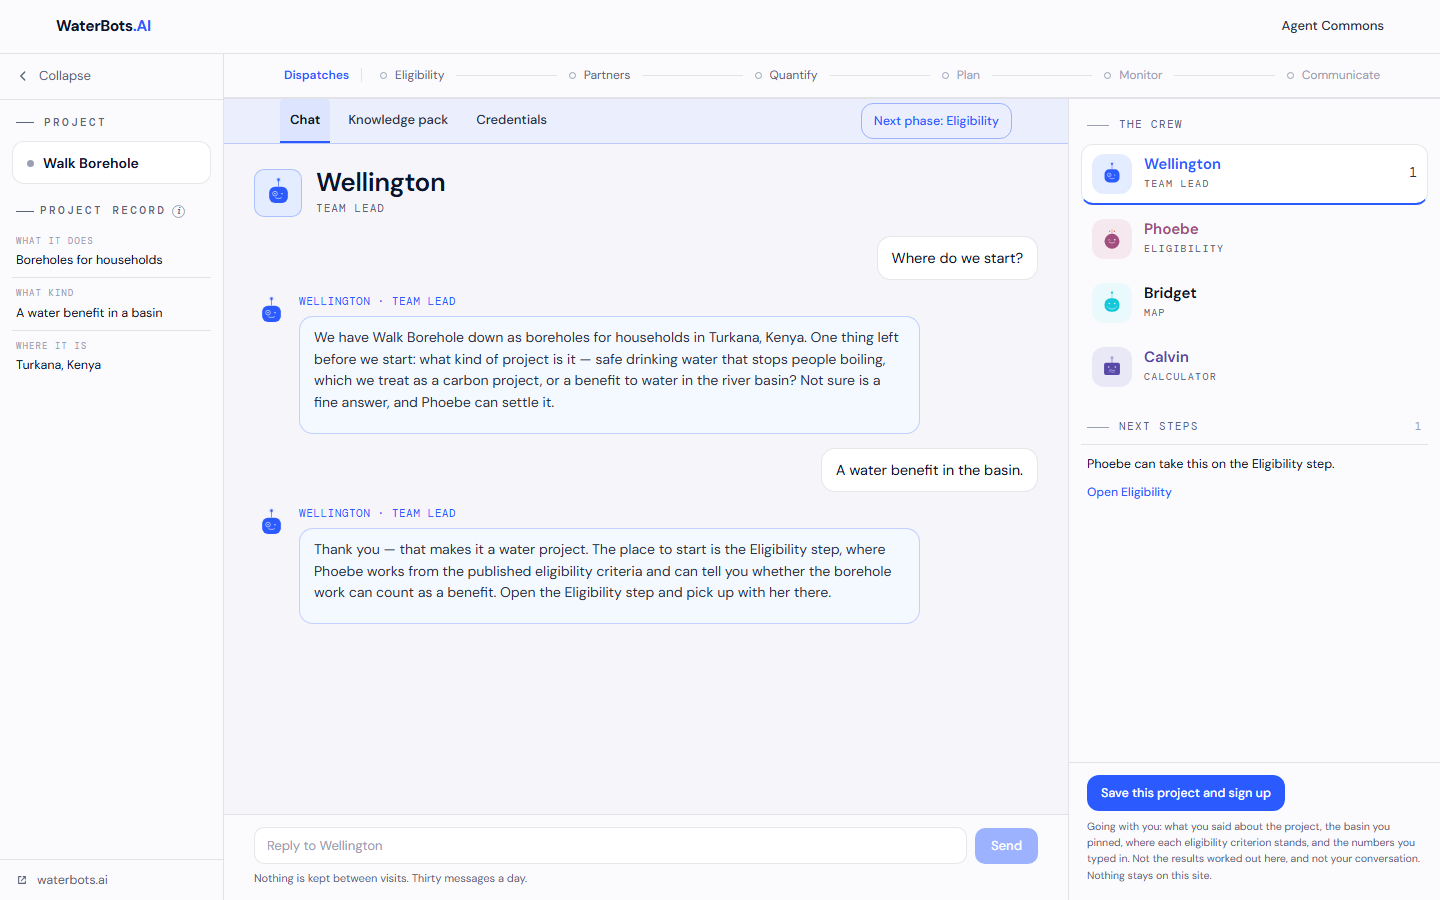
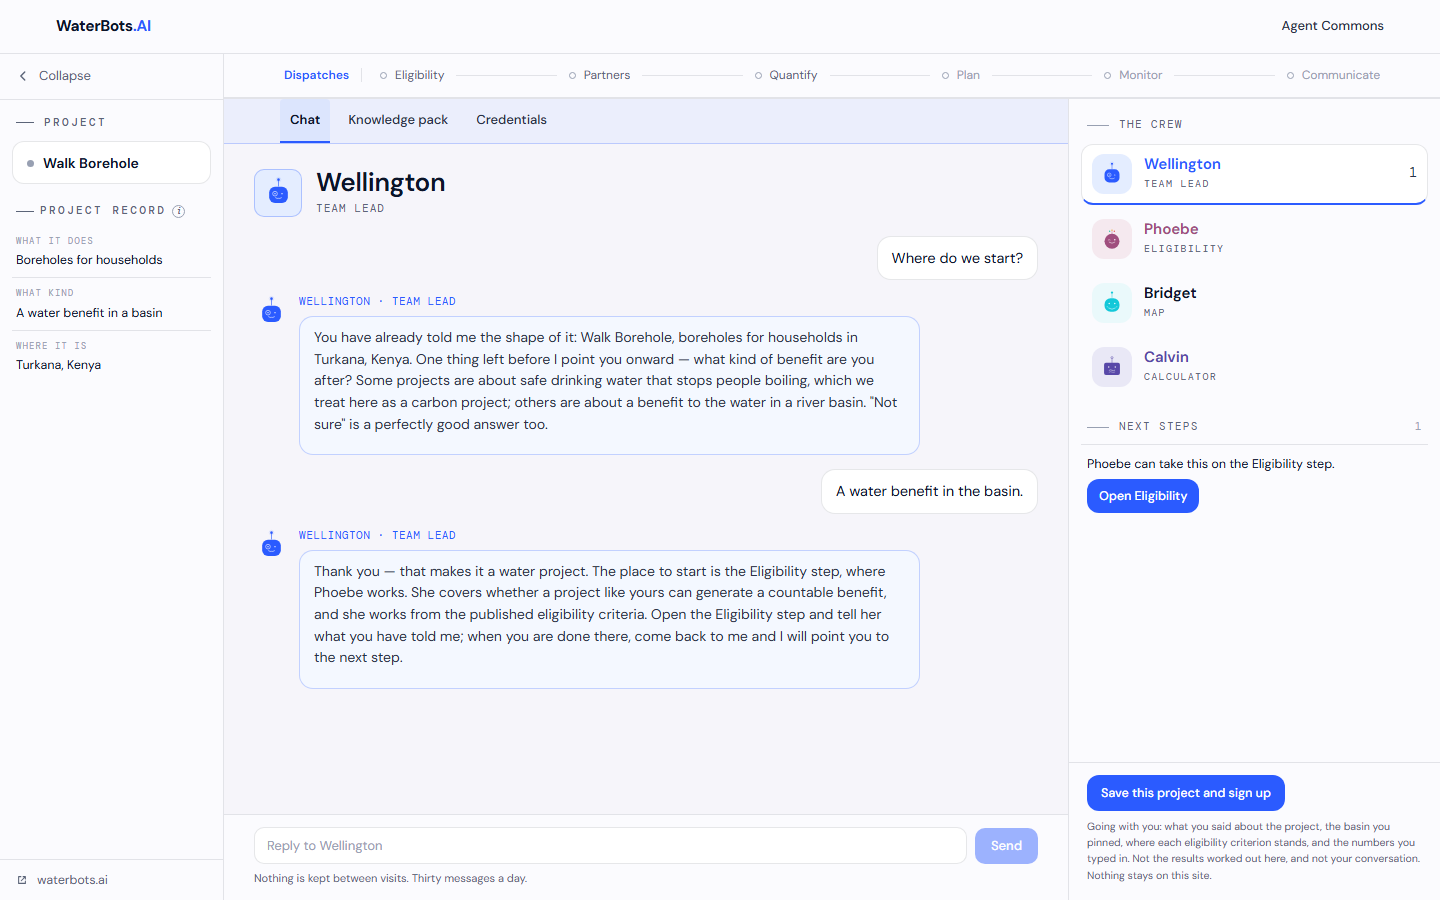
Fixed: one Eligibility primary on Next Steps
When the stage invite is showing, that rail button is the one filled-blue
CTA. The top Next phase chip hides if it would make the same move.

diff --git a/src/lib/visit.ts b/src/lib/visit.ts
@@ -265,6 +265,12 @@ export interface DeskRow {
   /** One complete sentence. */
   sentence: string;
   action: RowAction;
+  /**
+   * The stage invite — the one filled-blue primary. Derived rows never
+   * take this. Ruled 16 Sep 2026: one primary, on the rail, not also on
+   * "Next phase".
+   */
+  primary?: boolean;
 }
 
 const group = (n: number) => n.toLocaleString('en-GB');
@@ -379,6 +385,7 @@ export function currentInvite(visit: Visit): DeskRow | null {
       from: 'wellington',
       sentence: 'Phoebe can take this on the Eligibility step.',
       action: { kind: 'surface', label: 'Open Eligibility', surface: 'eligibility' },
+      primary: true,
     };
   }
   if (visit.stage === 'partners' && !visit.invitedPartners) {
@@ -387,6 +394,7 @@ export function currentInvite(visit: Visit): DeskRow | null {
       from: 'phoebe',
       sentence: 'Phoebe has finished this visit. Wellington is on Dispatches.',
       action: { kind: 'surface', label: 'Open Dispatches', surface: 'desk' },
+      primary: true,
     };
   }
   if (visit.stage === 'partners') {
@@ -395,6 +403,7 @@ export function currentInvite(visit: Visit): DeskRow | null {
       from: 'wellington',
       sentence: 'Pin the basin on the Partners step. Bridget is not answering yet; the map works.',
       action: { kind: 'surface', label: 'Open the map', surface: 'map' },
+      primary: true,
     };
   }
   if (visit.stage === 'quantify') {
@@ -404,6 +413,7 @@ export function currentInvite(visit: Visit): DeskRow | null {
       sentence:
         'The Quantify step can work out a screening figure. Calvin is not answering yet; the calculator works.',
       action: { kind: 'surface', label: 'Open Quantify', surface: 'quantification' },
+      primary: true,
     };
   }
   return null;
@@ -423,6 +433,12 @@ export function nextStepRows(visit: Visit, statuses: CriterionStatus[], packs: M
     return true;
   });
   return invite ? [invite, ...derived] : derived;
+}
+
+/** The surface the current invite opens, or null while still learning. */
+export function inviteSurface(visit: Visit): Surface | null {
+  const invite = currentInvite(visit);
+  return invite?.action.kind === 'surface' ? invite.action.surface : null;
 }
 
 /* --------------------------------------------------------------------------

diff --git a/src/App.tsx b/src/App.tsx
@@ -92,6 +92,7 @@ import {
   EMPTY_VISIT,
   applyEligibilityProgress,
   applyWellingtonRoute,
+  inviteSurface,
   journeyProgress,
   learnedContext,
   nextStepRows,
@@ -273,6 +274,7 @@ export default function App() {
 
   /* The current invite first, then derived rows that never outrank it. */
   const rows = useMemo(() => nextStepRows(visit, statuses, LIVE_PACKS), [visit, statuses]);
+  const invite = inviteSurface(visit);
   const progress = useMemo(() => journeyProgress(visit, statuses, LIVE_PACKS), [visit, statuses]);
 
   /* THE BRIDGE (item S7, built 8 Sep 2026). The click seals the visit as it
@@ -409,7 +411,7 @@ export default function App() {
                 style={{ position: 'absolute', inset: 0, visibility: onDesk ? undefined : 'hidden' }}
                 aria-hidden={!onDesk}
               >
-                  <Desk chat={chat} onNavigate={setSurface} />
+                  <Desk chat={chat} onNavigate={setSurface} inviteSurface={invite} />
               </div>
 
               {/* BRIDGET'S SCREEN, kept mounted, hidden when off-surface — see
@@ -425,6 +427,7 @@ export default function App() {
                   pinnedHybas={visit.pin?.hybasId ?? null}
                   onPin={setPin}
                   onNavigate={setSurface}
+                  inviteSurface={invite}
                 />
               </div>
 
@@ -448,6 +451,7 @@ export default function App() {
                   visible={onEligibility}
                   eligibilityInvite={visit.eligibilityInvite}
                   eligibilityDone={statuses.length > 0 && statuses.every((s) => s.state !== 'unchecked')}
+                  inviteSurface={invite}
                 />
               </div>
 
@@ -464,6 +468,7 @@ export default function App() {
                   allValues={visit.packValues}
                   onChange={setPackValues}
                   onNavigate={setSurface}
+                  inviteSurface={invite}
                 />
               </div>
             </main>

diff --git a/src/components/PhoebeScreen.tsx b/src/components/PhoebeScreen.tsx
@@ -36,7 +36,7 @@ import phoebePortrait from '../../brand/assets/bots/phoebe.svg';
 import type { AgentHost, AgentTurn } from '../chat/evidence';
 import { useConversation } from '../chat/useConversation';
 import type { CriterionStatus } from '../lib/criteriaState';
-import { nextPhaseAfter } from '../lib/journey';
+import { nextPhaseAfter, nextPhaseCompetes } from '../lib/journey';
 import { WELLINGTON } from '../lib/wellington';
 import {
   CARDS_APPROVED_ON,
@@ -74,6 +74,7 @@ export default function PhoebeScreen({
   visible,
   eligibilityInvite,
   eligibilityDone,
+  inviteSurface,
 }: {
   onCriteriaUpdate: (updates: CriterionUpdate[]) => void;
   /** The visit's project record, carried to Phoebe with every ask. */
@@ -88,6 +89,7 @@ export default function PhoebeScreen({
   eligibilityInvite: string;
   /** Every criterion has a verdict — she should send them back to Wellington. */
   eligibilityDone: boolean;
+  inviteSurface: Surface | null;
 }) {
   const carried = carriedRecord(record);
 
@@ -149,6 +151,7 @@ export default function PhoebeScreen({
     <AgentScreen
       host={PHOEBE}
       next={next && nextSurface ? { label: next.label, go: () => onNavigate(nextSurface) } : null}
+      nextQuiet={nextPhaseCompetes('eligibility', inviteSurface)}
       tabs={{
         chat: <ScreenChat host={PHOEBE} chat={chat} composerId="wb-phoebe-composer" />,
         tool: <EligibilityWorksheet statuses={statuses} onOpenMap={onOpenMap} />,

diff --git a/src/components/CalvinScreen.tsx b/src/components/CalvinScreen.tsx
@@ -30,7 +30,7 @@
 
 import calvinPortrait from '../../brand/assets/bots/calvin.svg';
 import type { AgentHost } from '../chat/evidence';
-import { nextPhaseAfter } from '../lib/journey';
+import { nextPhaseAfter, nextPhaseCompetes } from '../lib/journey';
 import { livePacks, type PackValues } from '../lib/methodPacks';
 import type { Surface } from '../lib/surfaces';
 import AgentScreen from '../screen/AgentScreen';
@@ -59,12 +59,14 @@ export default function CalvinScreen({
   allValues,
   onChange,
   onNavigate,
+  inviteSurface,
 }: {
   activeKey: string;
   onSelect: (key: string) => void;
   allValues: Record<string, PackValues>;
   onChange: (key: string, values: PackValues) => void;
   onNavigate: (surface: Surface) => void;
+  inviteSurface: Surface | null;
 }) {
   const next = nextPhaseAfter('quantification');
   const nextSurface = next?.surface ?? null;
@@ -74,6 +76,7 @@ export default function CalvinScreen({
       host={CALVIN}
       opensOn="tool"
       next={next && nextSurface ? { label: next.label, go: () => onNavigate(nextSurface) } : null}
+      nextQuiet={nextPhaseCompetes('quantification', inviteSurface)}
       tabs={{
         chat: <NotLiveChat host={CALVIN} line={CALVIN_NOT_LIVE_LINE} />,
         tool: (

diff --git a/src/components/Desk.tsx b/src/components/Desk.tsx
@@ -42,7 +42,7 @@
 
 import type { ReactNode } from 'react';
 import type { Conversation } from '../chat/useConversation';
-import { nextPhaseAfter } from '../lib/journey';
+import { nextPhaseAfter, nextPhaseCompetes } from '../lib/journey';
 import type { Surface } from '../lib/surfaces';
 import { WELLINGTON } from '../lib/wellington';
 import AgentScreen from '../screen/AgentScreen';
@@ -52,9 +52,12 @@ import ScreenChat, { SCREEN_COLUMN } from '../screen/ScreenChat';
 export default function Desk({
   chat,
   onNavigate,
+  inviteSurface,
 }: {
   chat: Conversation;
   onNavigate: (surface: Surface) => void;
+  /** The rail invite's surface, or null. Hides "Next phase" when it is the same move. */
+  inviteSurface: Surface | null;
 }) {
   const next = nextPhaseAfter('desk');
   const nextSurface = next?.surface ?? null;
@@ -63,6 +66,7 @@ export default function Desk({
     <AgentScreen
       host={WELLINGTON}
       next={next && nextSurface ? { label: next.label, go: () => onNavigate(nextSurface) } : null}
+      nextQuiet={nextPhaseCompetes('desk', inviteSurface)}
       tabs={{
         chat: <ScreenChat host={WELLINGTON} chat={chat} composerId="wb-desk-composer" />,
         pack: (

diff --git a/src/components/BridgetScreen.tsx b/src/components/BridgetScreen.tsx
@@ -29,7 +29,7 @@
 
 import bridgetPortrait from '../../brand/assets/bots/bridget.svg';
 import type { AgentHost } from '../chat/evidence';
-import { nextPhaseAfter } from '../lib/journey';
+import { nextPhaseAfter, nextPhaseCompetes } from '../lib/journey';
 import {
   AQUEDUCT_CITATION,
   AQUEDUCT_LICENCE,
@@ -65,11 +65,13 @@ export default function BridgetScreen({
   pinnedHybas,
   onPin,
   onNavigate,
+  inviteSurface,
 }: {
   onStatus: (status: MapStatus) => void;
   pinnedHybas: number | null;
   onPin: (pin: MapPin | null) => void;
   onNavigate: (surface: Surface) => void;
+  inviteSurface: Surface | null;
 }) {
   const next = nextPhaseAfter('map');
   const nextSurface = next?.surface ?? null;
@@ -79,6 +81,7 @@ export default function BridgetScreen({
       host={BRIDGET}
       opensOn="tool"
       next={next && nextSurface ? { label: next.label, go: () => onNavigate(nextSurface) } : null}
+      nextQuiet={nextPhaseCompetes('map', inviteSurface)}
       tabs={{
         chat: <NotLiveChat host={BRIDGET} line={NOT_LIVE_LINE} note={PROJECT_MAPPING_NOTE} />,
         tool: (

diff --git a/src/styles/base.css b/src/styles/base.css
@@ -822,6 +822,31 @@ button.wb-phase:hover span:last-child {
   text-underline-offset: 2px;
 }
 
+/* The stage invite — the one filled-blue primary for the recommended next
+   action. Derived rows stay quiet text links. Save at the foot is a different
+   action (leave this site). Ruled 16 Sep 2026. */
+.wb-invite-action {
+  display: inline-block;
+  font-family: var(--font-sans);
+  font-size: 12.5px;
+  font-weight: 500;
+  padding: 7px 12px;
+  border: 0;
+  border-radius: var(--r-md);
+  background: var(--tide-ui);
+  color: #ffffff;
+  cursor: pointer;
+  text-decoration: none;
+  transition: background var(--dur) var(--ease), transform var(--dur) var(--ease);
+}
+.wb-invite-action:hover {
+  background: var(--tide-hover);
+  text-decoration: none;
+}
+.wb-invite-action:active {
+  transform: scale(0.98);
+}
+
 /* The project's name, typed in the card itself — look pass, 8 Sep 2026. The
    rail input's quiet look at the card's title size. */
 .wb-rail-name {

diff --git a/src/screen/AgentScreen.tsx b/src/screen/AgentScreen.tsx
@@ -70,12 +70,18 @@ export default function AgentScreen({
   opensOn = 'chat',
   idSlug,
   next,
+  nextQuiet = false,
 }: {
   host: AgentHost;
   tabs: ScreenTabs;
   /** The tab shown first. Chat, unless the chat is not live. */
   opensOn?: ScreenTab;
   next: NextPhase | null;
+  /**
+   * Hide "Next phase" when the rail already holds the same move as a filled
+   * primary. One filled-blue CTA, on Next Steps. Ruled 16 Sep 2026.
+   */
+  nextQuiet?: boolean;
   /**
    * What the tab and panel ids are built from. Defaults to the host's name;
    * a second consumer of the same agent on one page — the Agent Commons
@@ -113,7 +119,7 @@ export default function AgentScreen({
           </button>
         ))}
 
-        {next && (
+        {next && !nextQuiet && (
           <button type="button" className="wb-next-phase" onClick={next.go}>
             Next phase: {next.label}
           </button>

diff --git a/src/components/CrewRail.tsx b/src/components/CrewRail.tsx
@@ -144,8 +144,8 @@ export default function CrewRail({
               {row.action.kind === 'surface' && (
                 <button
                   type="button"
-                  className="wb-row-action"
-                  style={{ fontSize: 12 }}
+                  className={row.primary ? 'wb-invite-action' : 'wb-row-action'}
+                  style={row.primary ? undefined : { fontSize: 12 }}
                   onClick={() => row.action.kind === 'surface' && onNavigate(row.action.surface)}
                 >
                   {row.action.label}

diff --git a/src/lib/journey.ts b/src/lib/journey.ts
@@ -49,3 +49,12 @@ export function nextPhaseAfter(surface: Surface | 'desk'): JourneyPhase | null {
   if (index === -1) return null;
   return JOURNEY[index + 1] ?? null;
 }
+
+/**
+ * True when "Next phase" would open the same surface as the rail invite.
+ * Hide the top chip then, so there is one filled-blue primary. Ruled 16 Sep 2026.
+ */
+export function nextPhaseCompetes(from: Surface | 'desk', invite: Surface | null): boolean {
+  if (!invite) return false;
+  return nextPhaseAfter(from)?.surface === invite;
+}
